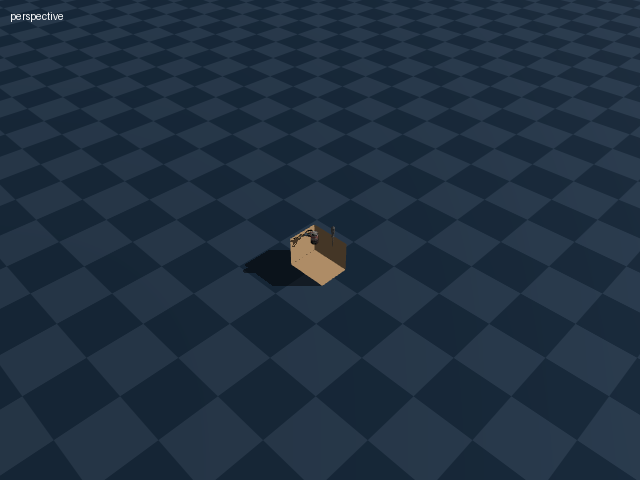
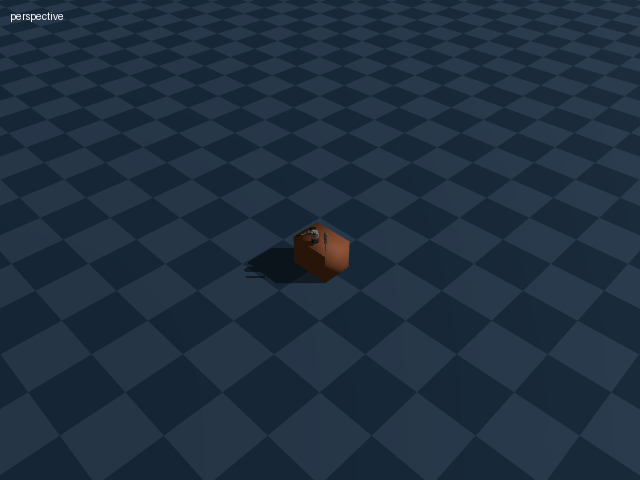
v3.1 integration app visuel

Changed region(s): [[0.375, 0.4688, 0.5625, 0.5938]]

diff --git a/src/ui/scene_3d_view.py b/src/ui/scene_3d_view.py
@@ -85,38 +85,32 @@ def load_meshes_from_urdf(urdf_path):
             geom = visual.find('geometry')
             if geom is None:
                 continue
-            mesh_tag = geom.find('mesh')
-            if mesh_tag is None:
-                continue
-            
-            box_tag = geom.find('box')
-            if box_tag is not None:
-                size = [float(v) for v in box_tag.get('size').split()]
-                m = trimesh.creation.box(extents=size)
-            else:
-                mesh_tag = geom.find('mesh')
-                if mesh_tag is None:
-                    continue
-                mesh_path = os.path.join(urdf_dir, mesh_tag.get('filename', ''))
-                if not os.path.exists(mesh_path):
-                    continue
-                m = trimesh.load(mesh_path, force='mesh')
-            mesh_path = os.path.join(urdf_dir, mesh_tag.get('filename', ''))
-            if not os.path.exists(mesh_path):
-                continue
 
-            # Couleur URDF optionnelle
-            urdf_rgba = None
-            material = visual.find('material')
-            if material is not None:
-                color_elem = material.find('color')
-                if color_elem is not None:
-                    vals = color_elem.get('rgba', '').split()
-                    if len(vals) == 4:
-                        urdf_rgba = tuple(float(v) for v in vals)
+            box_tag  = geom.find('box')
+            mesh_tag = geom.find('mesh')
 
             try:
-                m = trimesh.load(mesh_path, force='mesh')
+                if box_tag is not None:
+                    size = [float(v) for v in box_tag.get('size').split()]
+                    m = trimesh.creation.box(extents=size)
+                elif mesh_tag is not None:
+                    mesh_path = os.path.join(urdf_dir, mesh_tag.get('filename', ''))
+                    if not os.path.exists(mesh_path):
+                        continue
+                    m = trimesh.load(mesh_path, force='mesh')
+                else:
+                    continue
+
+                # Couleur URDF optionnelle
+                urdf_rgba = None
+                material = visual.find('material')
+                if material is not None:
+                    color_elem = material.find('color')
+                    if color_elem is not None:
+                        vals = color_elem.get('rgba', '').split()
+                        if len(vals) == 4:
+                            urdf_rgba = tuple(float(v) for v in vals)
+
                 vis_T = np.eye(4)
                 origin = visual.find('origin')
                 if origin is not None:
@@ -126,7 +120,6 @@ def load_meshes_from_urdf(urdf_path):
                     vis_T[:3, 3] = xyz
                 m.apply_transform(link_T @ vis_T)
 
-                # Si URDF donne une couleur, l'injecter dans le visual du mesh
                 if urdf_rgba is not None:
                     rgba_u8 = (np.array(urdf_rgba) * 255).clip(0, 255).astype(np.uint8)
                     m.visual = trimesh.visual.ColorVisuals(

diff --git a/src/pipeline_worker.py b/src/pipeline_worker.py
@@ -73,6 +73,7 @@ def get_genesis_dims_subprocess(items, orientations):
 # "V2" : object_rec + relations + orientations via phi3-scene (finetuned), scales via phi3:mini
 # "V1": placement et modification 100% LLM direct (sans sceneBuilding)
 PIPELINE_VERSION = "V2"
+IMAGE_VERSION = "V3.1"
 
 # on choisit object_rec selon la version
 if PIPELINE_VERSION == "V2":
@@ -92,6 +93,11 @@ def set_text_version(version):
     else:
         object_rec = _object_rec_v1_1
     print(f"[VERSION] Pipeline texte -> {version}")
+
+def set_image_version(version):
+    global IMAGE_VERSION
+    IMAGE_VERSION = version
+    print(f"[VERSION] Pipeline image -> {version}")
 
 
 SRC_DIR = os.path.dirname(os.path.abspath(__file__))
@@ -313,9 +319,12 @@ class ImageSceneWorker(QObject):
     def run(self):
         try:
             print(f"[ImageSceneWorker] Demarrage | {len(self.image_paths)} image(s): {self.image_paths}")
-            self.status_update.emit("Analyse de l'image en cours (V3)...")
-            print("[ImageSceneWorker] Import du pipeline V3...")
-            from pipeline.versions.v3_1_vlm_refined.pipeline_v3_1_image import scene_from_image
+            self.status_update.emit(f"Analyse de l'image en cours ({IMAGE_VERSION})...")
+            print(f"[ImageSceneWorker] Import du pipeline {IMAGE_VERSION}...")
+            if IMAGE_VERSION == "V3":
+                from pipeline.versions.v3_vlm_only.pipeline_v3_image import scene_from_image
+            else:
+                from pipeline.versions.v3_1_vlm_refined.pipeline_v3_1_image import scene_from_image
             print("[ImageSceneWorker] Import OK, appel de scene_from_image...")
             objetsList = scene_from_image(self.image_paths, dims_fn=get_genesis_dims_subprocess)
             if not objetsList:

diff --git a/src/app.py b/src/app.py
@@ -98,8 +98,13 @@ class MainWindow(QMainWindow):
 
         self.image_version_combo = QComboBox()
         self.image_version_combo.setObjectName("version_combo")
-        self.image_version_combo.setFixedWidth(160)
-        self.image_version_combo.addItem("V3 — vision LLM", "V3")
+        self.image_version_combo.setFixedWidth(190)
+        for key, label in [
+            ("V3.1", "V3.1 — vision raffine"),
+            ("V3",   "V3 — vision LLM"),
+        ]:
+            self.image_version_combo.addItem(label, key)
+        self.image_version_combo.setCurrentIndex(0)
         self.image_version_combo.currentIndexChanged.connect(self._on_image_version_changed)
         vb_layout.addWidget(self.image_version_combo)
 
@@ -158,7 +163,7 @@ class MainWindow(QMainWindow):
         self.image_btn = QPushButton("📎")
         self.image_btn.setObjectName("image_btn")
         self.image_btn.setFixedWidth(55)
-        self.image_btn.setToolTip("Generer la scene depuis une image (V3)")
+        self.image_btn.setToolTip("Generer la scene depuis une image")
         self.image_btn.clicked.connect(self._on_load_image)
         input_row.addWidget(self.image_btn)
 
@@ -680,8 +685,9 @@ class MainWindow(QMainWindow):
         pipeline_worker.set_text_version(version)
 
     def _on_image_version_changed(self):
+        import pipeline_worker
         version = self.image_version_combo.currentData()
-        print(f"[VERSION] Pipeline image -> {version}")
+        pipeline_worker.set_image_version(version)
 
     def _dark_theme(self):
         app = QApplication.instance()
